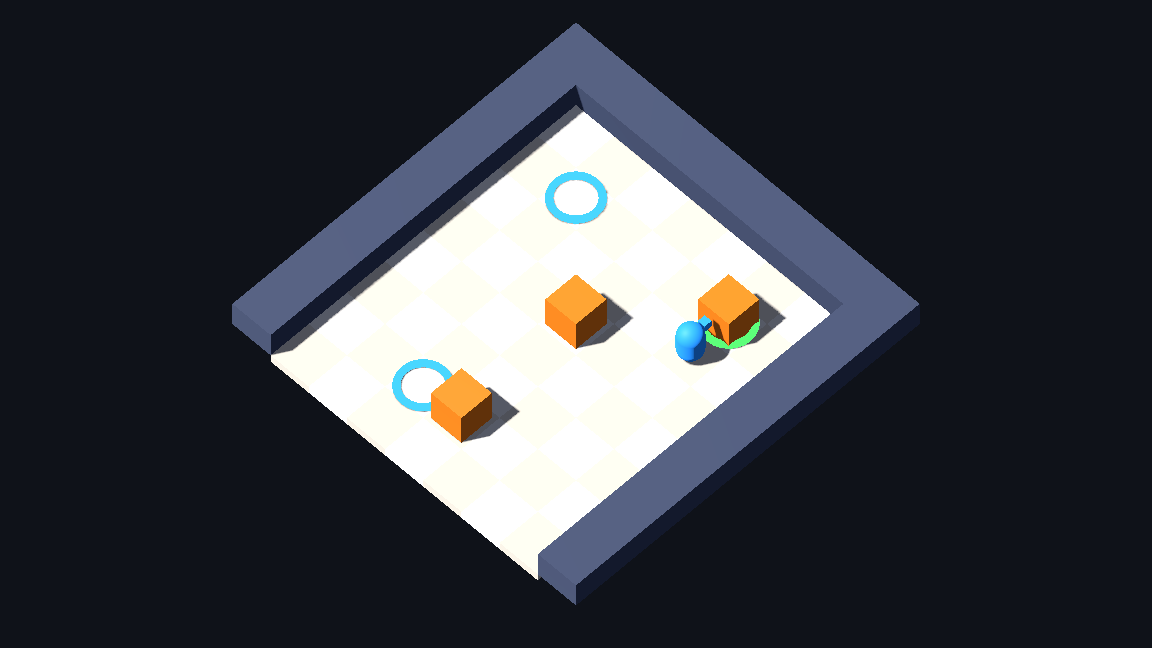
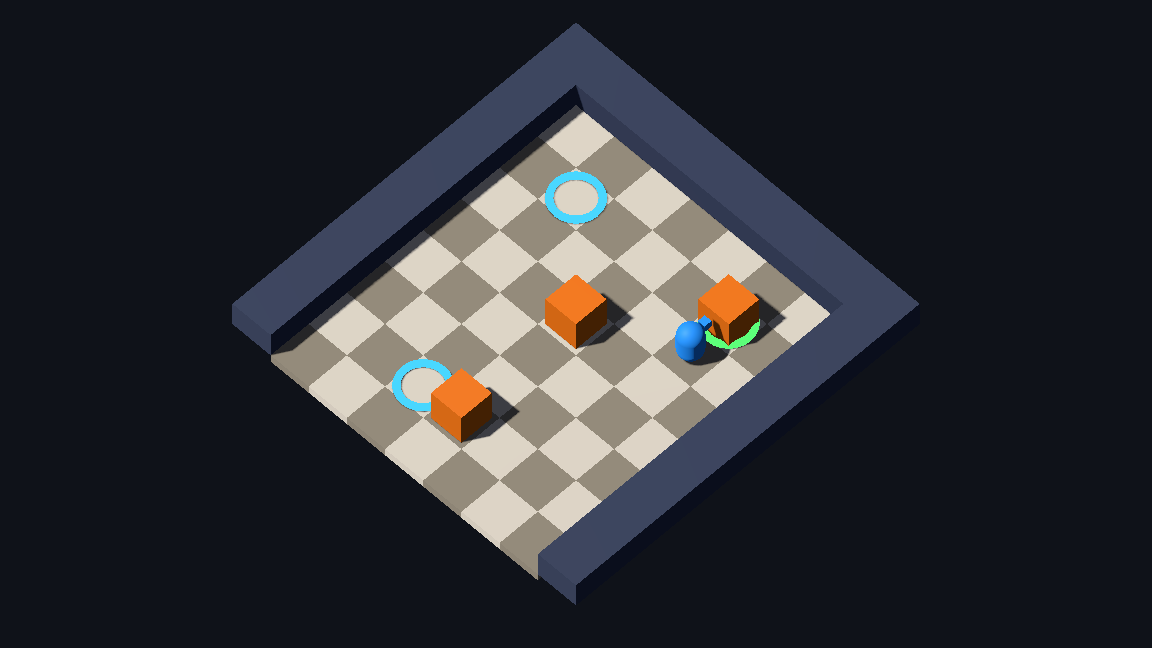
evidence: recapture story-001 with the new floor palette

Changed region(s): [[0.1875, 0.0309, 0.8125, 0.9259]]

diff --git a/production/qa/evidence/story-001/index.md b/production/qa/evidence/story-001/index.md
@@ -1,8 +1,8 @@
 # Evidence: story-001
 
-Run result: OBSERVED — the 1152x648 frame captured with --demo=pushed is the 55° pitch / 45° yaw isometric view: the board reads as a diamond with the two far slate walls visible and the near side cut open; exactly one crate is on the (6, 2) goal (green ring) and the other two goals (2, 2) and (3, 7) are empty (cyan rings), with the player at (6, 3). The demo occupancy and player cell are asserted by the headless demo test.
+Run result: OBSERVED — the 1152x648 frame captured with --demo=pushed is the 55° pitch / 45° yaw isometric view: the board reads as a diamond with the two far slate walls visible and the near side cut open. The checkerboard is now clearly visible: adjacent light and dark floor cells have an obvious brightness difference instead of washing out to near-white. Exactly one crate is on the (6, 2) goal (green ring) and the other two goals (2, 2) and (3, 7) are empty (cyan rings), with the player at (6, 3). The demo occupancy and player cell are asserted by the headless demo test.
 
-- `story-001-1.png` — `python scripts/studio.py capture --out production/qa/evidence/story-001/story-001-1.png -- --demo=pushed`: the isometric demo-pushed frame; the crate on (6, 2) sits inside the green placed-goal ring, the empty goals at (2, 2) and (3, 7) show cyan rings, the other two crates stay on floor, and the diamond has the two far slate walls with the near side open.
+- `story-001-1.png` — `python scripts/studio.py capture --out production/qa/evidence/story-001/story-001-1.png -- --demo=pushed`: the isometric demo-pushed frame at the new floor palette; the checkerboard is clearly readable across the floor, the slate walls / orange crates / blue player / cyan and green goal rings stay distinct, and the crate on (6, 2) sits inside the green placed-goal ring.
 - `check.log` — `python scripts/studio.py check` output: exit 0, `[check] import OK`, and the changed `src/game.gd` parses.
 - `test.log` — `python scripts/studio.py test` output: exit 0, `PASS: 58 checks passed`; the demo test asserts exactly one crate on a goal, the other goals empty, and the player at (6, 3); the three `ERROR: level '<id>'` lines are the expected loader rejections.
-- `capture.log` — `python scripts/studio.py capture --out production/qa/evidence/story-001/story-001-1.png -- --demo=pushed` output: exit 0, a 1152x648 PNG of 38981 bytes, user arguments `--demo=pushed`.
+- `capture.log` — `python scripts/studio.py capture --out production/qa/evidence/story-001/story-001-1.png -- --demo=pushed` output: exit 0, a 1152x648 PNG of 41824 bytes, user arguments `--demo=pushed`.
